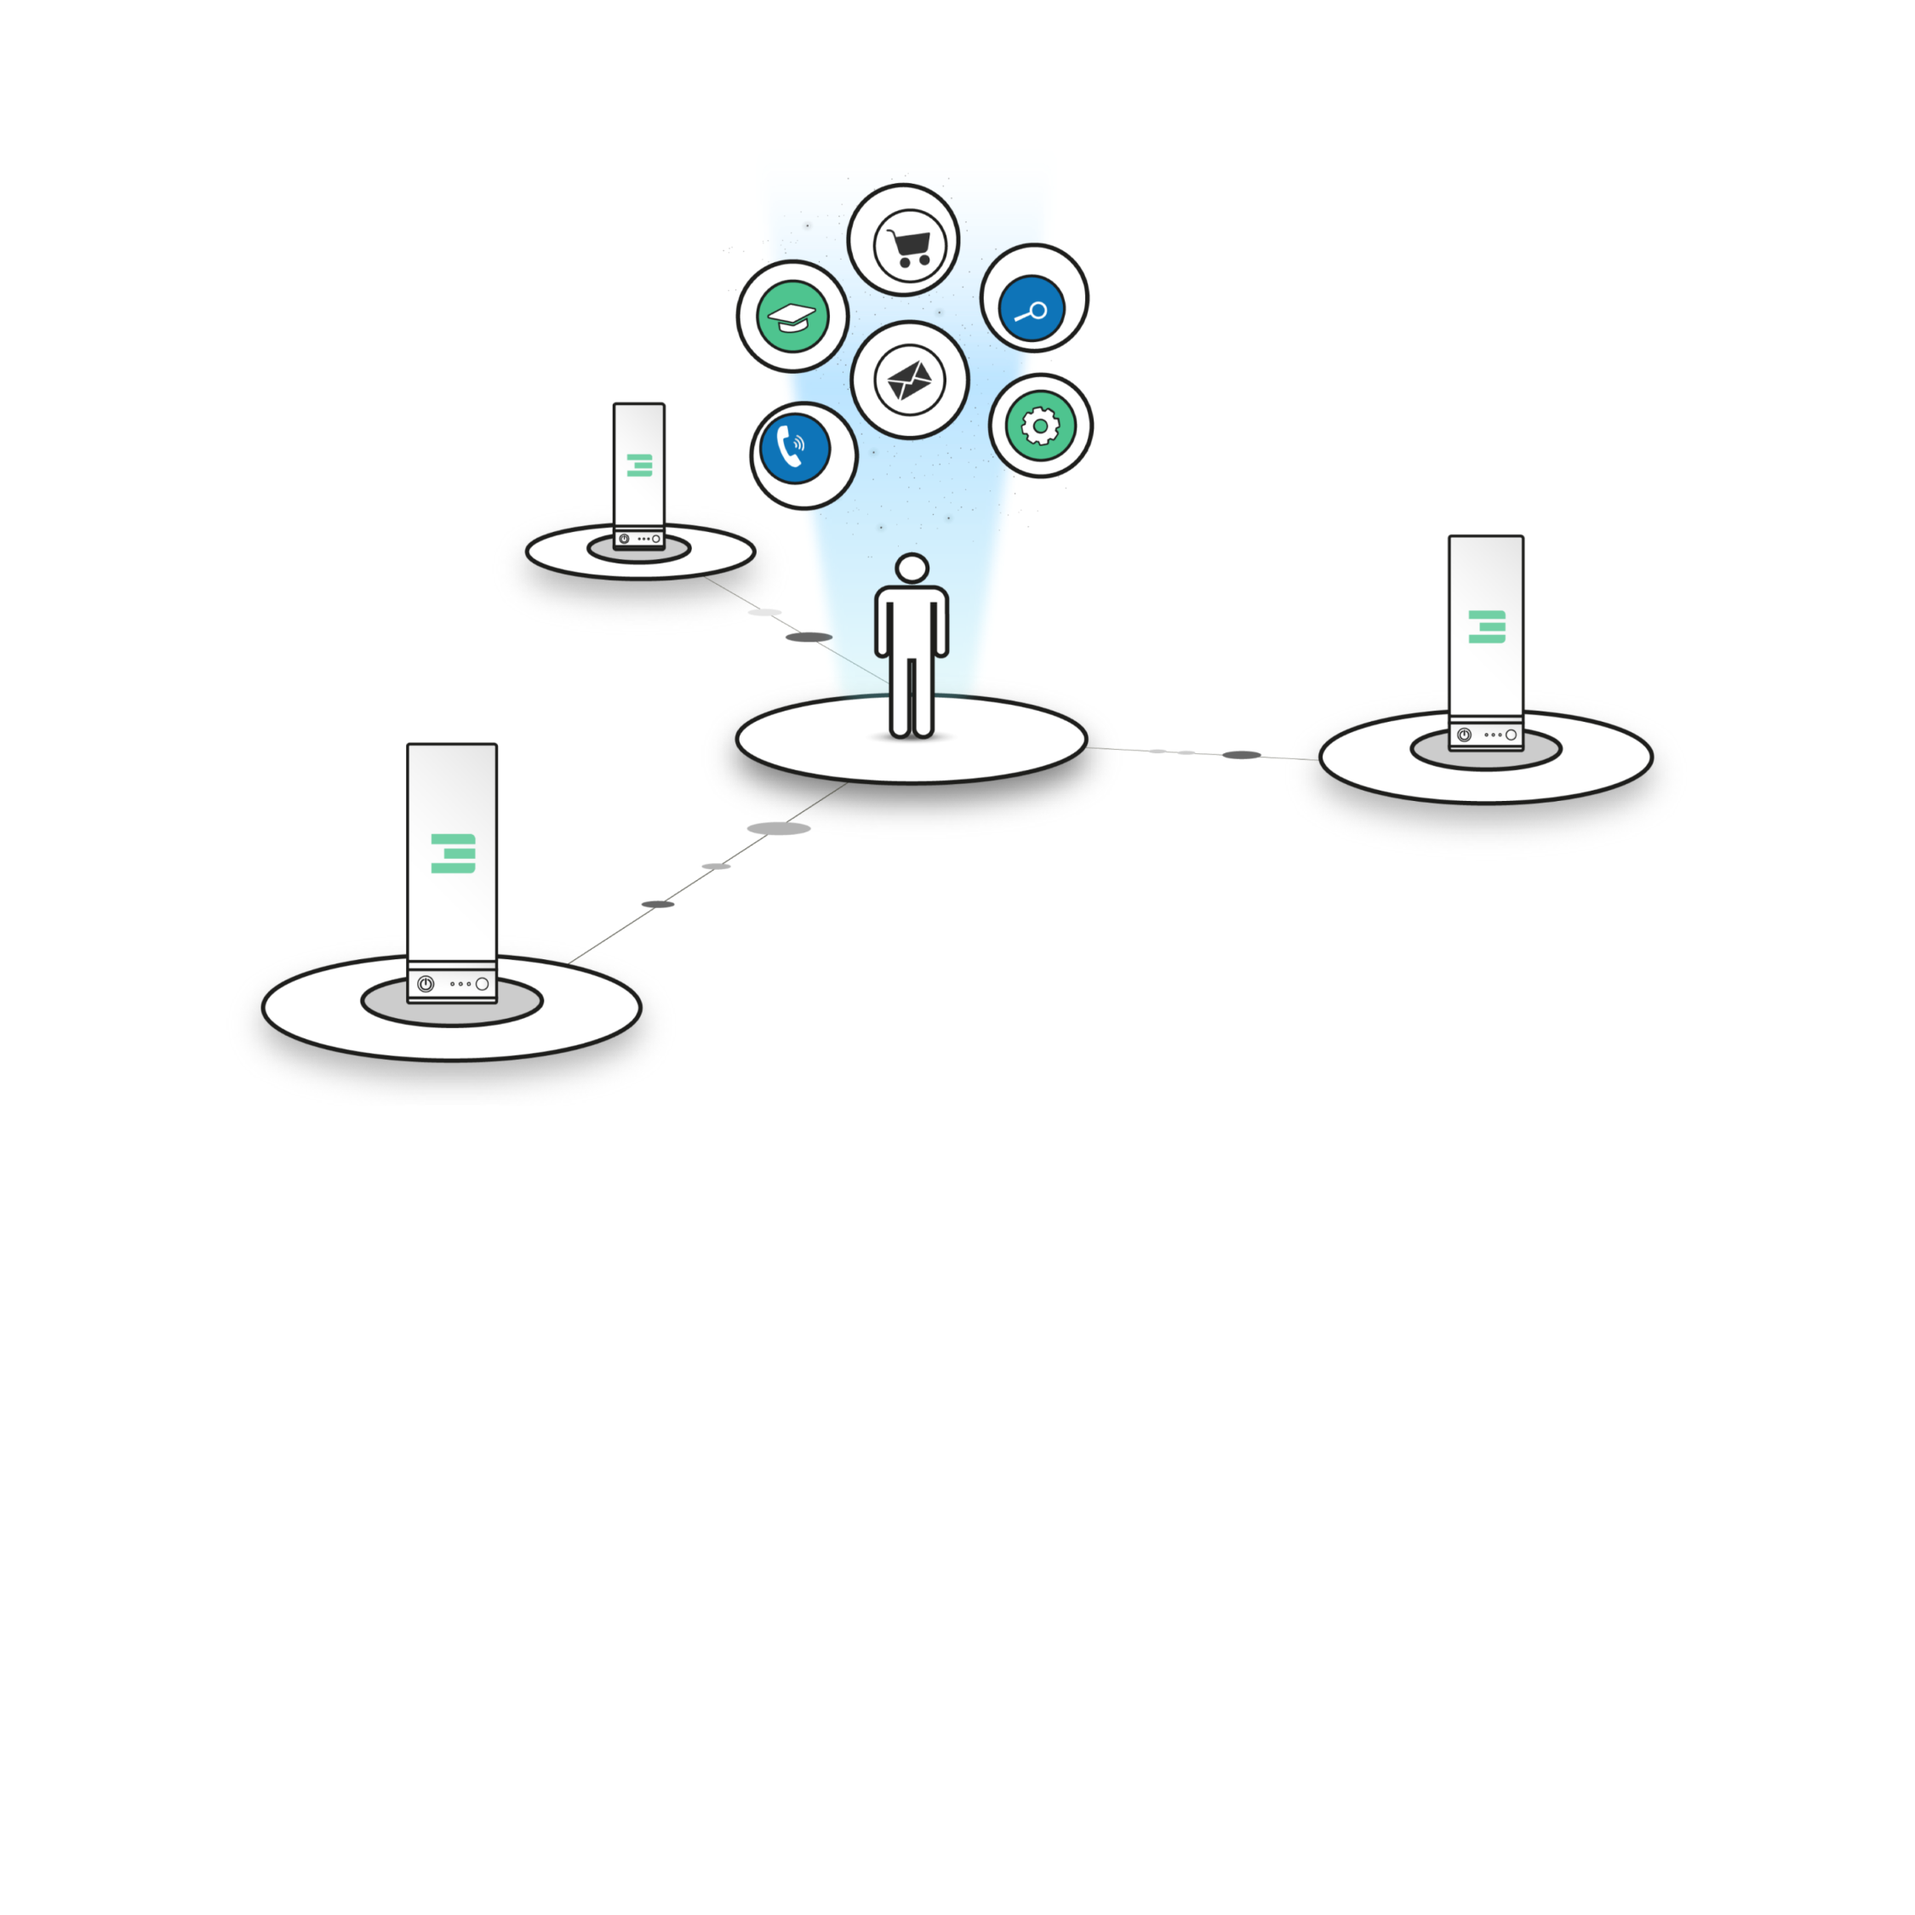
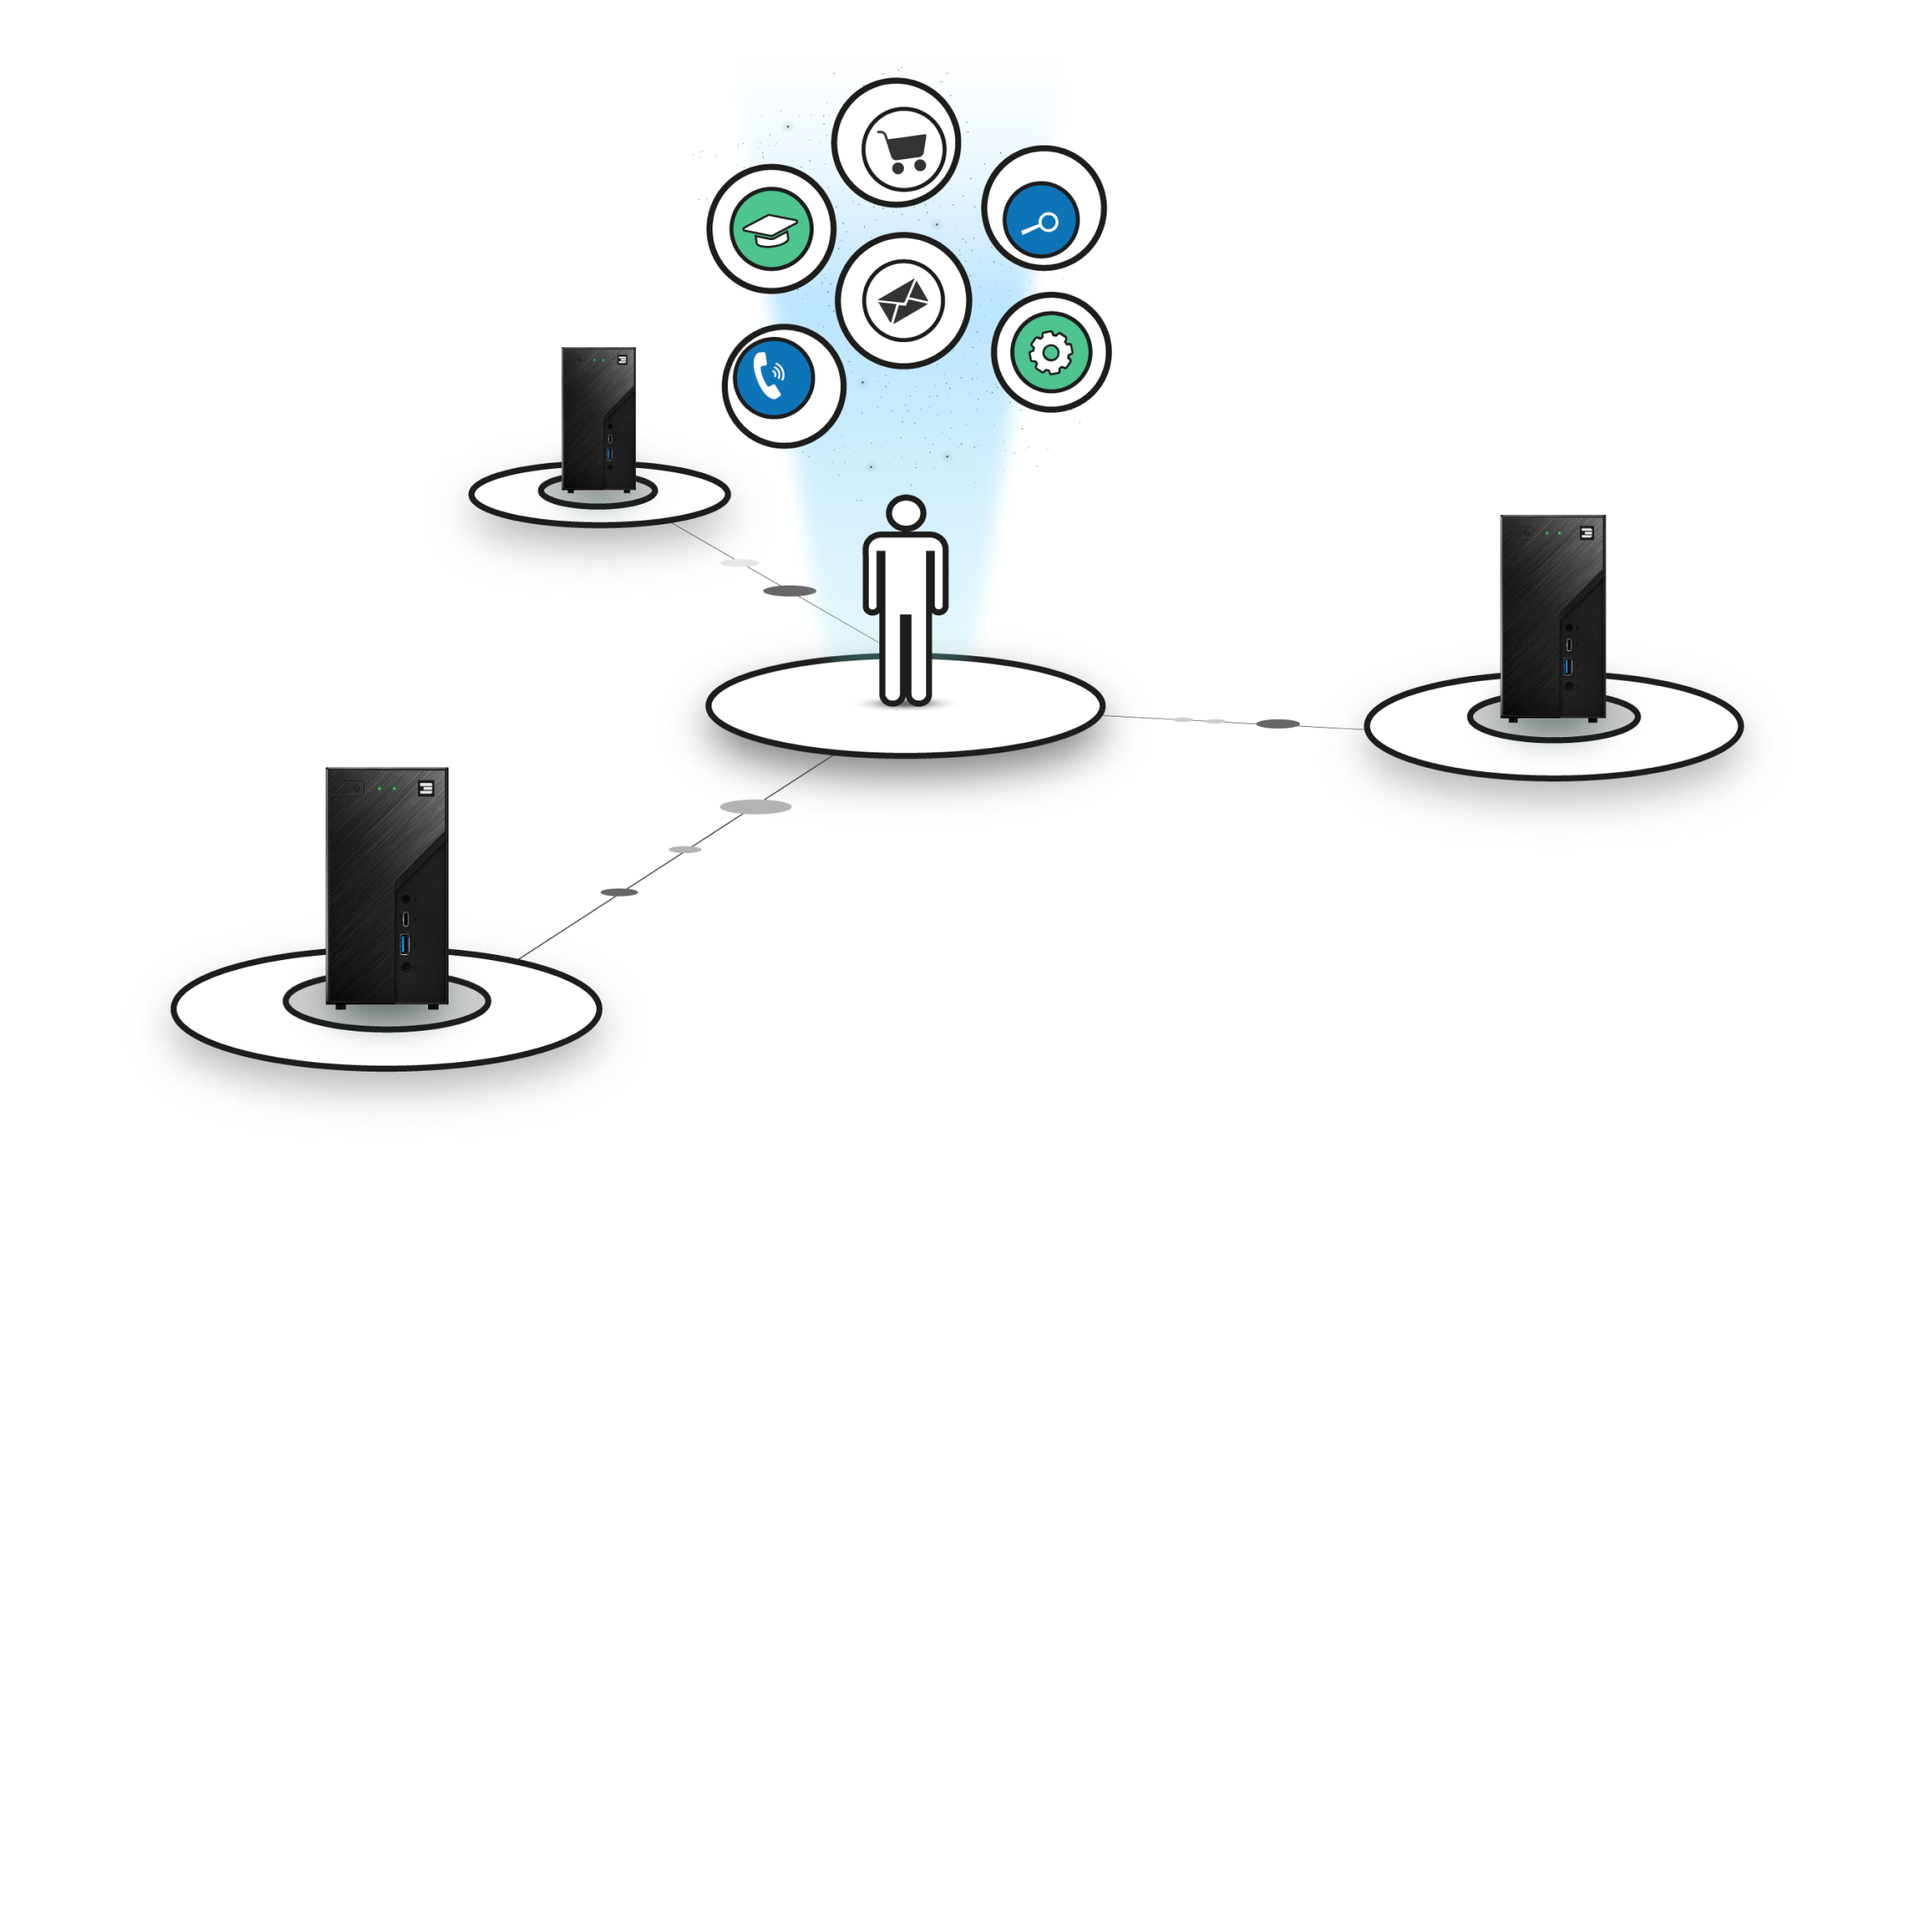
image updates for home, tech, token

diff --git a/content/page/home/home.md b/content/page/home/home.md
@@ -1,7 +1,7 @@
 ---
 id: home
 header_title: Be the Internet
-header_image: ./farming_header.png
+header_image: ./farming_header2.png 
 header_excerpt: This is the era of decentralization. Plug in a server (3Node) from your home or office and start generating passive revenue by selling decentralized storage and compute capacity.
 button: Meet the 3Node
 link: /3node
@@ -24,7 +24,7 @@ features2:
 logos: [logo1, logo2, logo3, logo4, logo5, logo6]
 inTheNews: in_the_news
 cta: home_cta
-solution_image: ./home_image.png
+solution_image: ./home_grid.png
 ---
 
 <!--  -->

diff --git a/content/page/tech/tech.md b/content/page/tech/tech.md
@@ -6,11 +6,11 @@ header_excerpt: Bringing a smart, secure and efficent network solution that allo
 button: ''
 link: ''
 headerSolution4: headerSolution4
-solution_image3: ./solution_node.png
+solution_image3: ./tech_node.png
 cards3: [card1]
 headerSolution2: headerSolution2
 cards: [solution_card4, solution_card5]
-solution_image4: ./participate_image.png
+solution_image4: ./tech_image.png
 cta: solution_cta
 brandPanel: solution_brandPanel
 ---

diff --git a/content/page/why/brandPanel/brandPanel.md b/content/page/why/brandPanel/brandPanel.md
@@ -4,7 +4,7 @@ title: A strong community of believers
 subtitle: ""
 sourceUrl: "/team"
 btnTxt: Meet the believers
-image: participate_cta.png # Please add images in src/assets/brandPanel/
+image: teamcollage3.png # Please add images in src/assets/brandPanel/
 ---
 
 We are a group of passionate individuals that work, together, towards a common dream - a fair, equal and sustainable Internet available to everyone, everywhere.

diff --git a/content/page/tech/brandPanel/brandPanel.md b/content/page/tech/brandPanel/brandPanel.md
@@ -4,7 +4,7 @@ title: PLUG & EARN
 subtitle: Farmers earn in TFT's
 sourceUrl: /token
 btnTxt: Know More
-image: solution_plugearn.png # Please add images in src/assets/brandPanel/\
+image: tech_cta.png # Please add images in src/assets/brandPanel/\
 ---
 
 The ThreeFold Token (TFT) allows farmers to lease out and developers to purchase compute and storage capacity on the ThreeFold Grid.

diff --git a/content/page/3node/brandPanel/brandPanel.md b/content/page/3node/brandPanel/brandPanel.md
@@ -4,7 +4,7 @@ title:
 subtitle: Currently 3Nodes are SOLD OUT
 sourceUrl: https://pre-register.threefold.io/
 btnTxt: Pre-Register
-image: participate_cta.png # Please add images in src/assets/brandPanel/\
+image: 3node_cta.png # Please add images in src/assets/brandPanel/\
 ---
 
 Spots are limited. Dive in, and book your pre-register spot in the Q1 2021 Batch.

diff --git a/content/page/3node/3node.md b/content/page/3node/3node.md
@@ -1,7 +1,7 @@
 ---
 id: 3node
 header_title: Plug & Earn
-header_image: ./3_nodes.png
+header_image: ./3node_header.png
 header_altImg: participate_header
 header_excerpt: Plug & Earn nodes don't require any technical knowledge to set up. An electricity outlet, internet connection, and a 3Node are all you need to start earning.
 button: Pre-Register Today

diff --git a/content/page/home/cards/card1/card1.md b/content/page/home/cards/card1/card1.md
@@ -1,7 +1,7 @@
 ---
 id: home_card
 title: Introducing the 3Node
-image: ./home_card1.png
+image: ./home_card_1.png
 button: Learn More
 link: /3node
 order: 1

diff --git a/content/page/3node/how_it_works/main/main.md b/content/page/3node/how_it_works/main/main.md
@@ -1,5 +1,4 @@
 ---
 id: participate_main
 title: Meet the Titan V2
-image: ./howitworks.png
----
+image: ./3node_howitworks.png
